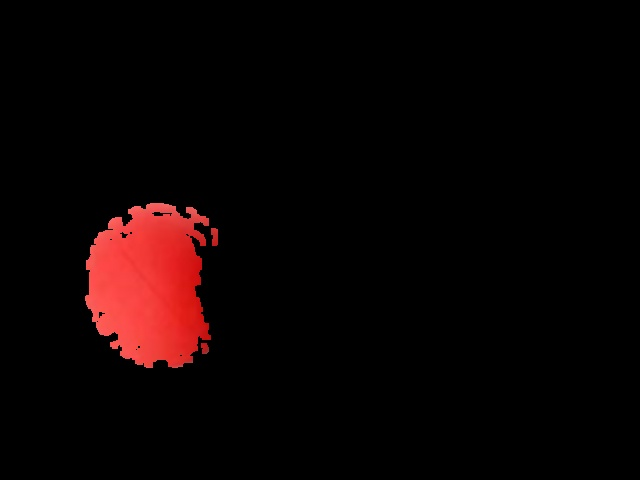
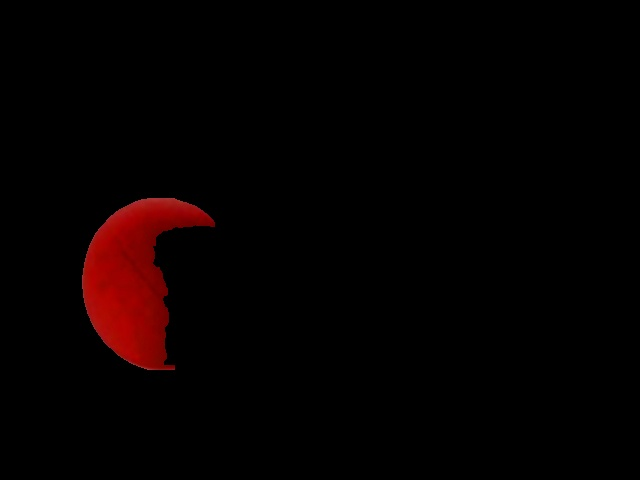
update circle hough transformation

Changed region(s): [[0.125, 0.4062, 0.3438, 0.7812]]

diff --git a/circle_hough_transform/b_bright_red.py b/circle_hough_transform/b_bright_red.py
@@ -1,0 +1,79 @@
+#!/usr/bin/env python2
+# -*- coding: utf-8 -*-
+
+# setting up modules used in the program
+from matplotlib import pyplot as plt
+import numpy as np
+import imutils
+import glob
+import time
+import cv2
+import os
+
+# source 1: https://www.learnopencv.com/color-spaces-in-opencv-cpp-python/
+# source 2: https://github.com/spmallick/learnopencv/tree/master/ColorSpaces/
+# source 3: https://docs.opencv.org/3.4.1/df/d9d/tutorial_py_colorspaces.html/
+# source 4: https://www.pyimagesearch.com/2015/09/14/ball-tracking-with-opencv/
+
+# clear the screen
+os.system("cls")
+# load image into array
+img = cv2.imread("1-bright.jpg", 3)
+# record the start time
+start = time.time()
+# convert image to ycrcb colouring
+ycrcb = cv2.cvtColor(img, cv2.COLOR_BGR2YCrCb)
+# minimum red color range in ycrcb colouring
+lower_red = np.array([ 10, 180,  90])
+# maximum red color range in ycrcb colouring
+upper_red = np.array([145, 230, 115])
+# mask all colour except red
+mask = cv2.inRange(ycrcb, lower_red, upper_red)
+# erode outer pixels of an object in mask 
+mask = cv2.erode(mask, None, iterations = 2)
+# dilate outer pixels of an object in mask
+mask = cv2.dilate(mask, None, iterations = 2)
+# append with color
+res = cv2.bitwise_and(img,img, mask= mask)
+# find contours in the mask
+cnts = cv2.findContours(mask.copy(), cv2.RETR_EXTERNAL, cv2.CHAIN_APPROX_SIMPLE)
+cnts = imutils.grab_contours(cnts)
+# initialize (x, y) center of the ball
+center = None
+# initialize blank picture
+circle = np.zeros((480, 640, 3), np.uint8)
+
+# if countour was found
+if (len(cnts) > 0):
+
+    # find the largest contour in the mask
+    c = max(cnts, key=cv2.contourArea)
+    # calculate the minimum enclosing circle
+    ((x, y), radius) = cv2.minEnclosingCircle(c)
+    # calculate the centroid
+    M = cv2.moments(c)
+    center = (int(M["m10"] / M["m00"]), int(M["m01"] / M["m00"]))
+
+    # if the radius meets a minimum size
+    if (radius > 10):
+
+        # draw the circle
+        cv2.circle(circle, (int(x), int(y)), int(radius), (255, 255, 255), 2)
+        # draw the centroid
+        cv2.circle(circle, center, 5, (255, 255, 255), -1)
+
+# calculate the stop time
+stop = time.time() - start
+# time take
+print ("Time taken to draw a circle on red ball: %s [s]." % stop)
+# center pinpoint result
+print ("The circle's center is located at point x-axis: %s, y-axis: %s.\n" % (center[0], center[1]))
+# converted ycrcb image
+print (">> ycrcb converted image result is saved as 2-bgr2ycrcb.jpg")
+cv2.imwrite("2-bgr2ycrcb.jpg", ycrcb)
+# masked red image
+print (">> Red masked image result is saved as 3-masked.jpg")
+cv2.imwrite("2-masked.jpg", res)
+# draw circle image
+print (">> Circle image result is saved as 4-circle.jpg")
+cv2.imwrite("4-circle.jpg", circle)

diff --git a/circle_hough_transform/b_dark_red.py b/circle_hough_transform/b_dark_red.py
@@ -6,6 +6,7 @@ from matplotlib import pyplot as plt
 import numpy as np
 import imutils
 import glob
+import time
 import cv2
 import os
 
@@ -17,15 +18,17 @@ import os
 # clear the screen
 os.system("cls")
 # load image into array
-img = cv2.imread("1-original.jpg", 3)
-# convert image to hsv colouring
-hsv = cv2.cvtColor(img, cv2.COLOR_BGR2HSV)
-# minimum red color range in hsv colouring
-lower_red = np.array([  0, 150,  60])
-# maximum red color range in hsv colouring
-upper_red = np.array([  1, 240, 255])
+img = cv2.imread("1-dark.jpg", 3)
+# record the start time
+start = time.time()
+# convert image to ycrcb colouring
+ycrcb = cv2.cvtColor(img, cv2.COLOR_BGR2YCrCb)
+# minimum red color range in ycrcb colouring
+lower_red = np.array([ 10, 180,  90])
+# maximum red color range in ycrcb colouring
+upper_red = np.array([145, 230, 115])
 # mask all colour except red
-mask = cv2.inRange(hsv, lower_red, upper_red)
+mask = cv2.inRange(ycrcb, lower_red, upper_red)
 # erode outer pixels of an object in mask 
 mask = cv2.erode(mask, None, iterations = 2)
 # dilate outer pixels of an object in mask
@@ -59,14 +62,18 @@ if (len(cnts) > 0):
         # draw the centroid
         cv2.circle(circle, center, 5, (255, 255, 255), -1)
 
+# calculate the stop time
+stop = time.time() - start
+# time take
+print ("Time taken to draw a circle on red ball: %s [s]." % stop)
 # center pinpoint result
 print ("The circle's center is located at point x-axis: %s, y-axis: %s.\n" % (center[0], center[1]))
-# converted hsv image
-print ("HSV converted image result is saved as 2-bgr2hsv.jpg")
-cv2.imwrite("2-bgr2hsv.jpg", hsv)
+# converted ycrcb image
+print (">> ycrcb converted image result is saved as 2-bgr2ycrcb.jpg")
+cv2.imwrite("2-bgr2ycrcb.jpg", ycrcb)
 # masked red image
-print ("Red masked image result is saved as 3-masked.jpg")
+print (">> Red masked image result is saved as 3-masked.jpg")
 cv2.imwrite("2-masked.jpg", res)
 # draw circle image
-print ("Circle image result is saved as 4-circle.jpg")
+print (">> Circle image result is saved as 4-circle.jpg")
 cv2.imwrite("4-circle.jpg", circle)

diff --git a/circle_hough_transform/a_color_picker.py b/circle_hough_transform/a_color_picker.py
@@ -45,7 +45,7 @@ if __name__ == '__main__' :
     global img
 
     # load the image and setup the mouse callback function
-    files = glob.glob("original_image/*.jpg")
+    files = glob.glob("*.jpg")
     files.sort()
     print(files)
     img = cv2.imread(files[0])
